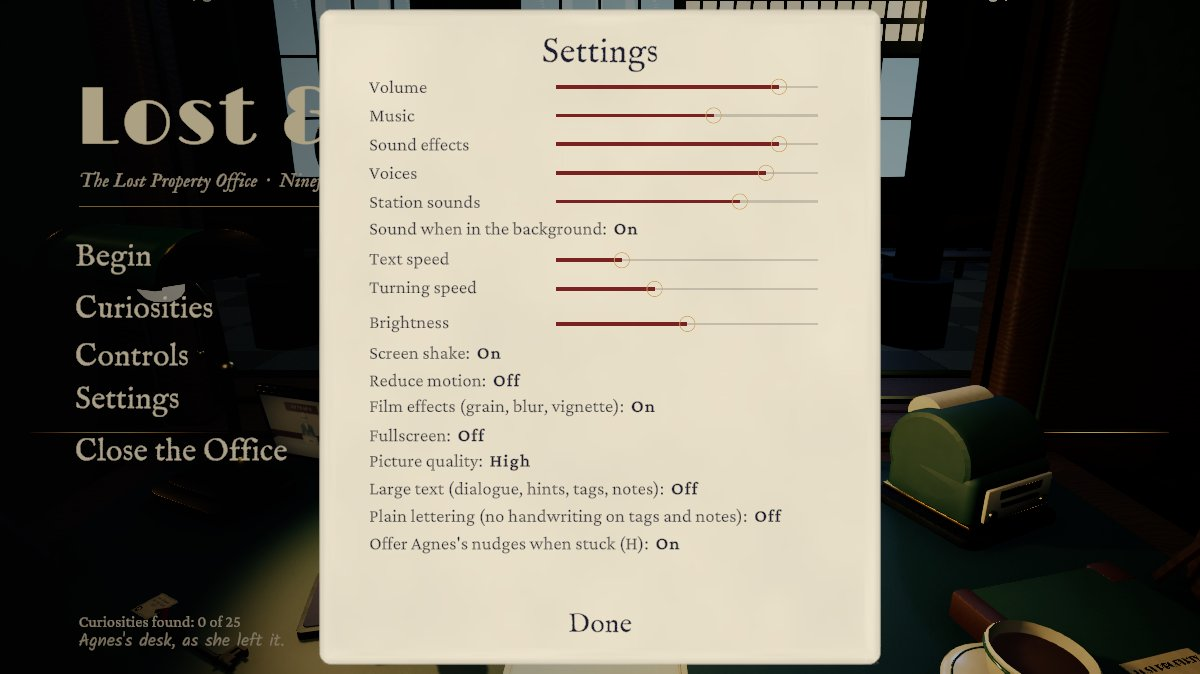
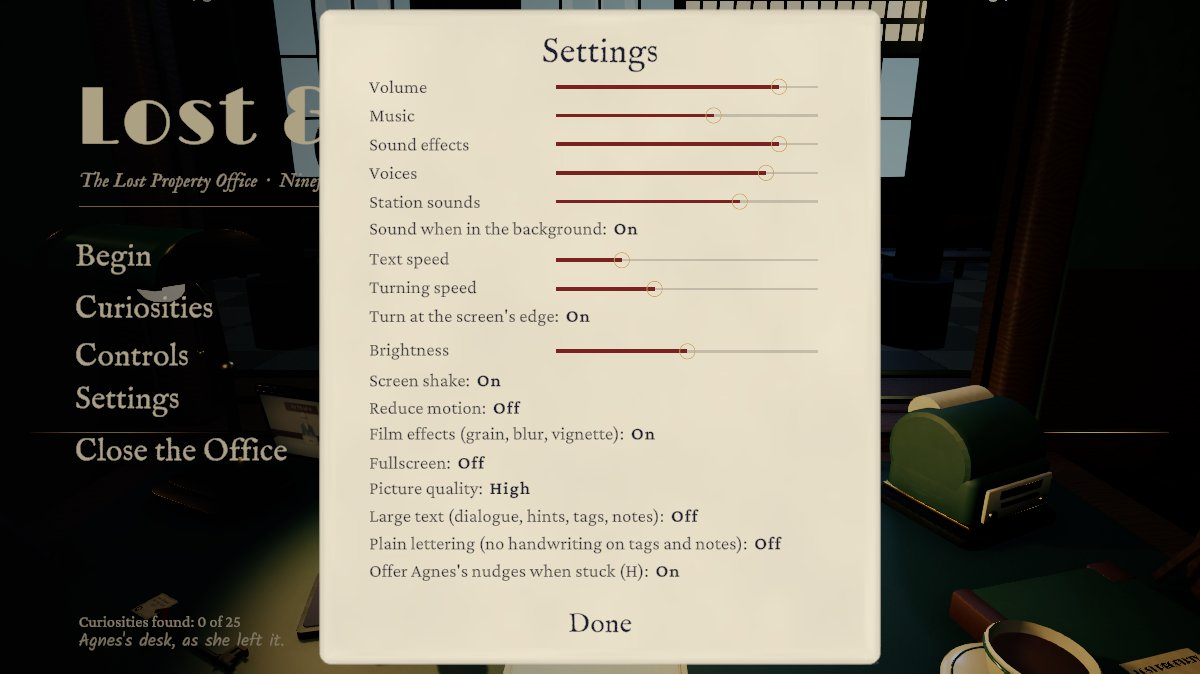
Turning at the screen's edge, on or off: a Settings toggle, and a player check of when the desk turns
Pushing the pointer to the side turned the desk with no way to stop it, and in a window (the default)
the side of the window is where the pointer leaves for the rest of the desktop. Settings > Turn at the
screen's edge (on by default, as before) turns it off; the keys, the arrows and the pad still turn.
Tools/unity.sh edgetest holds a virtual mouse at each side in the real player: it turns with the
setting on, not off, and not while another window has the focus (round 8's guard, unexercised until
now; the headless KWin opens that window once the test says it's ready).

Changed region(s): [[0.3083, 0.4674, 0.6783, 0.8724]]

diff --git a/Assets/Game/Scripts/Debug/EdgeTest.cs b/Assets/Game/Scripts/Debug/EdgeTest.cs
@@ -1,0 +1,107 @@
+using System.Collections;
+using System.Collections.Generic;
+using UnityEngine;
+using UnityEngine.InputSystem;
+using UnityEngine.InputSystem.LowLevel;
+
+namespace LostAndFound
+{
+    /// <summary>
+    /// -lafEdgeTest: holds a virtual mouse at each side of the screen in the counter view and checks when the desk turns.
+    /// With Settings › Turn at the screen's edge on it turns (left to the drawers, right to the shelf); off, it doesn't; and
+    /// while another window has the focus it doesn't either (Tools/unity.sh edgetest puts one over the game, as LAF_STEAL
+    /// does). Logs "[EdgeTest] PASS" when every hold did what it should. Run it inside the headless KWin only.
+    /// </summary>
+    public class EdgeTest : MonoBehaviour
+    {
+        Mouse mouse;
+        readonly List<string> failed = new();
+        int checks;
+
+        void Start()
+        {
+            Application.runInBackground = true;
+            mouse = InputSystem.AddDevice<Mouse>("EdgeMouse");
+            StartCoroutine(Run());
+        }
+
+        void OnDestroy()
+        {
+            if (mouse != null && mouse.added) InputSystem.RemoveDevice(mouse);
+        }
+
+        void Point(Vector2 p)
+        {
+            mouse.MakeCurrent();
+            InputSystem.QueueStateEvent(mouse, new MouseState { position = p });
+        }
+
+        static IEnumerator Until(System.Func<bool> cond, float timeout)
+        {
+            float end = Time.realtimeSinceStartup + timeout;
+            while (!cond() && Time.realtimeSinceStartup < end) yield return null;
+        }
+
+        IEnumerator Centre()
+        {
+            Point(new Vector2(Screen.width * 0.5f, Screen.height * 0.5f));
+            yield return new WaitForSecondsRealtime(0.2f);
+            Point(new Vector2(Screen.width * 0.5f + 40f, Screen.height * 0.5f));   // it has moved: the pointer counts from here
+            yield return new WaitForSecondsRealtime(0.3f);
+            if (CameraRig.I.view != View.Counter) { CameraRig.I.SetView(View.Counter); yield return new WaitForSecondsRealtime(0.6f); }
+        }
+
+        /// <summary>Hold the pointer at one side for 1.5 s (a turn needs 0.35 s there) and see whether the desk turned.</summary>
+        IEnumerator Hold(int side, bool expectTurn, string what)
+        {
+            yield return Centre();
+            var before = CameraRig.I.view;
+            Point(new Vector2(side < 0 ? 3f : Screen.width - 3f, Screen.height * 0.5f));
+            yield return new WaitForSecondsRealtime(1.5f);
+            var after = CameraRig.I.view;
+            bool turned = after != before;
+            checks++;
+            string line = $"{what}: pointer at the {(side < 0 ? "left" : "right")} edge for 1.5 s, view {before} -> {after} (window focused {Application.isFocused}, edge turning {(Settings.EdgeTurn ? "on" : "off")})";
+            if (turned == expectTurn) Debug.Log($"[EdgeTest] ok  {line}");
+            else { Debug.Log($"[EdgeTest] FAIL {line}: expected {(expectTurn ? "a turn" : "no turn")}"); failed.Add(what); }
+            yield return Centre();
+        }
+
+        IEnumerator Run()
+        {
+            var d = Director.I;
+            // past the morning, to the bell: the counter view, nothing open, free to turn
+            d.autoAdvance = true;
+            yield return Until(() => d.CanRing && !UIRoot.ModalOpen && Application.isFocused, 90f);
+            if (!d.CanRing) { Debug.Log("[EdgeTest] FAIL: never reached the bell"); Application.Quit(); yield break; }
+            yield return new WaitForSecondsRealtime(1f);
+            Debug.Log($"[EdgeTest] at the bell, {Screen.width}x{Screen.height}, view {CameraRig.I.view}");
+
+            bool was = Settings.EdgeTurn;
+            Settings.EdgeTurn = true;
+            yield return Hold(-1, true, "on");
+            yield return Hold(1, true, "on");
+            Settings.EdgeTurn = false;
+            yield return Hold(-1, false, "off");
+            yield return Hold(1, false, "off");
+            Settings.EdgeTurn = true;
+
+            // another window takes the focus (Tools/unity.sh edgetest opens one): the pointer left at the side mustn't turn the desk
+            Debug.Log("[EdgeTest] waiting for another window to take the focus");
+            yield return Until(() => !Application.isFocused, 40f);
+            if (Application.isFocused) { Debug.Log("[EdgeTest] FAIL: no other window took the focus (run it with Tools/unity.sh edgetest)"); failed.Add("focus"); }
+            else
+            {
+                yield return new WaitForSecondsRealtime(0.5f);
+                yield return Hold(-1, false, "out of focus");
+                yield return Hold(1, false, "out of focus");
+                yield return Until(() => Application.isFocused, 40f);
+                yield return new WaitForSecondsRealtime(0.5f);
+                yield return Hold(-1, true, "focus back");
+            }
+            Settings.EdgeTurn = was;
+            Debug.Log(failed.Count == 0 ? $"[EdgeTest] PASS ({checks} holds)" : $"[EdgeTest] FAIL: {string.Join(", ", failed)}");
+            Application.Quit();
+        }
+    }
+}

diff --git a/Assets/Game/Scripts/Util/Settings.cs b/Assets/Game/Scripts/Util/Settings.cs
@@ -33,7 +33,7 @@ namespace LostAndFound
         }
 
         static readonly string[] FloatKeys = { "master", "music", "sfx", "voice", "ambience", "mouse", "textspeed", "textsize", "quality", "brightness" };
-        static readonly string[] BoolKeys = { "shake", "reducemotion", "post", "fullscreen", "plain", "offernudges", "bgsound" };
+        static readonly string[] BoolKeys = { "shake", "reducemotion", "post", "fullscreen", "plain", "offernudges", "bgsound", "edgeturn" };
 
         static Dictionary<string, float> Values
         {
@@ -143,6 +143,9 @@ namespace LostAndFound
         public static bool PlainLettering { get => B("plain", false); set => SetB("plain", value); }
         /// <summary>After a while stuck on a claim, the hint bar offers one of Agnes's nudges (H works either way).</summary>
         public static bool OfferNudges { get => B("offernudges", true); set => SetB("offernudges", value); }
+        /// <summary>Turn to the drawers or the shelf when the pointer rests at the side of the screen (the keys, the arrows on
+        /// screen and the pad turn it either way).</summary>
+        public static bool EdgeTurn { get => B("edgeturn", true); set => SetB("edgeturn", value); }
         /// <summary>Keep the sound on while another window has the focus (see BackgroundMode).</summary>
         public static bool SoundInBackground { get => B("bgsound", true); set => SetB("bgsound", value); }
         /// <summary>-1 darkest, 0 the game as lit, 1 brightest: the 3D scene's exposure (see BrightnessEV), never the paper UI.</summary>

diff --git a/Assets/Game/Tests/EditMode/SettingsTests.cs b/Assets/Game/Tests/EditMode/SettingsTests.cs
@@ -36,6 +36,7 @@ namespace LostAndFound.Tests
             Assert.AreEqual(2, Settings.PictureQuality);
             Assert.IsTrue(Settings.OfferNudges);
             Assert.AreEqual(0f, Settings.Brightness);
+            Assert.IsTrue(Settings.EdgeTurn, "the desk turns at the screen's edge, as it always has");
             Assert.IsFalse(File.Exists(path), "reading alone writes nothing");
         }
 
@@ -47,6 +48,7 @@ namespace LostAndFound.Tests
             Settings.PictureQuality = 0;
             Settings.MusicVolume = 0.25f;
             Settings.OfferNudges = false;
+            Settings.EdgeTurn = false;
             Assert.IsTrue(File.Exists(path));
             Assert.IsFalse(File.Exists(path + ".tmp"), "the temporary file is swapped in, not left behind");
             Settings.UseFile(path);   // as the next launch reads them
@@ -55,6 +57,7 @@ namespace LostAndFound.Tests
             Assert.AreEqual(0, Settings.PictureQuality);
             Assert.AreEqual(0.25f, Settings.MusicVolume, 1e-5f);
             Assert.IsFalse(Settings.OfferNudges);
+            Assert.IsFalse(Settings.EdgeTurn);
         }
 
         [Test]

diff --git a/Assets/Game/Scripts/Desk/CameraRig.cs b/Assets/Game/Scripts/Desk/CameraRig.cs
@@ -174,8 +174,9 @@ namespace LostAndFound
 
         void UpdateEdgeTurn(float dt)
         {
-            // not while another window has the focus: a pointer that left the window by its side still reads as at the edge
-            if (!allowTurn || Mouse.current == null || UIRoot.ModalOpen || hasFocus || !MouseLive || !Application.isFocused) { edgeTimer = 0f; edgeDir = 0; return; }
+            // not while another window has the focus: a pointer that left the window by its side still reads as at the edge.
+            // Not at all with Settings > Turn at the screen's edge off
+            if (!Settings.EdgeTurn || !allowTurn || Mouse.current == null || UIRoot.ModalOpen || hasFocus || !MouseLive || !Application.isFocused) { edgeTimer = 0f; edgeDir = 0; return; }
             float x = Mouse.current.position.ReadValue().x / Mathf.Max(1, Screen.width);
             int dir = x < 0.025f ? -1 : x > 0.975f ? 1 : 0;
             if (dir != edgeDir) { edgeDir = dir; edgeTimer = 0f; }

diff --git a/Assets/Game/Scripts/UI/TitleScreen.cs b/Assets/Game/Scripts/UI/TitleScreen.cs
@@ -299,6 +299,7 @@ namespace LostAndFound
             y -= 4f;
             Slider("Text speed", 0.5f, 2.5f, () => Settings.TextSpeed, v => Settings.TextSpeed = v);
             Slider("Turning speed", 0.4f, 2f, () => Settings.MouseSensitivity, v => Settings.MouseSensitivity = v);
+            Toggle("Turn at the screen's edge", () => Settings.EdgeTurn, v => Settings.EdgeTurn = v);
             y -= 10f;
             Slider("Brightness", -1f, 1f, () => Settings.Brightness, v => Settings.Brightness = v);
             Toggle("Screen shake", () => Settings.ScreenShake, v => Settings.ScreenShake = v);

diff --git a/Assets/Game/Scripts/Flow/Game.cs b/Assets/Game/Scripts/Flow/Game.cs
@@ -164,6 +164,7 @@ namespace LostAndFound
             if (Arg("-lafAuditHotspots") != null) gameObject.AddComponent<HotspotAudit>();
             if (Arg("-lafGamepadTest") != null) gameObject.AddComponent<GamepadTest>();
             if (Arg("-lafTapTest") != null) gameObject.AddComponent<TapTest>();
+            if (Arg("-lafEdgeTest") != null) gameObject.AddComponent<EdgeTest>();
             if (Arg("-lafSoak") != null) Soak.Ensure();
         }
 

diff --git a/README.md b/README.md
@@ -38,7 +38,7 @@ It's a small deduction game about **looking closely**. There are no timers and n
 | Action | Control |
 |---|---|
 | Point, pick up, open, press | Mouse (left click) |
-| Turn to the drawers / the shelf | `A` / `D`, `←` / `→`, or push the mouse to the screen edge |
+| Turn to the drawers / the shelf | `A` / `D`, `←` / `→`, or push the mouse to the screen edge (*Turn at the screen's edge* in Settings turns that off) |
 | Turn an object over | Drag with the left button (or `Q` `E` `W` `S`) |
 | Look closer | Scroll wheel |
 | Put the object down / on the counter tray | Right click, `Esc` or `Backspace` / `T` |
